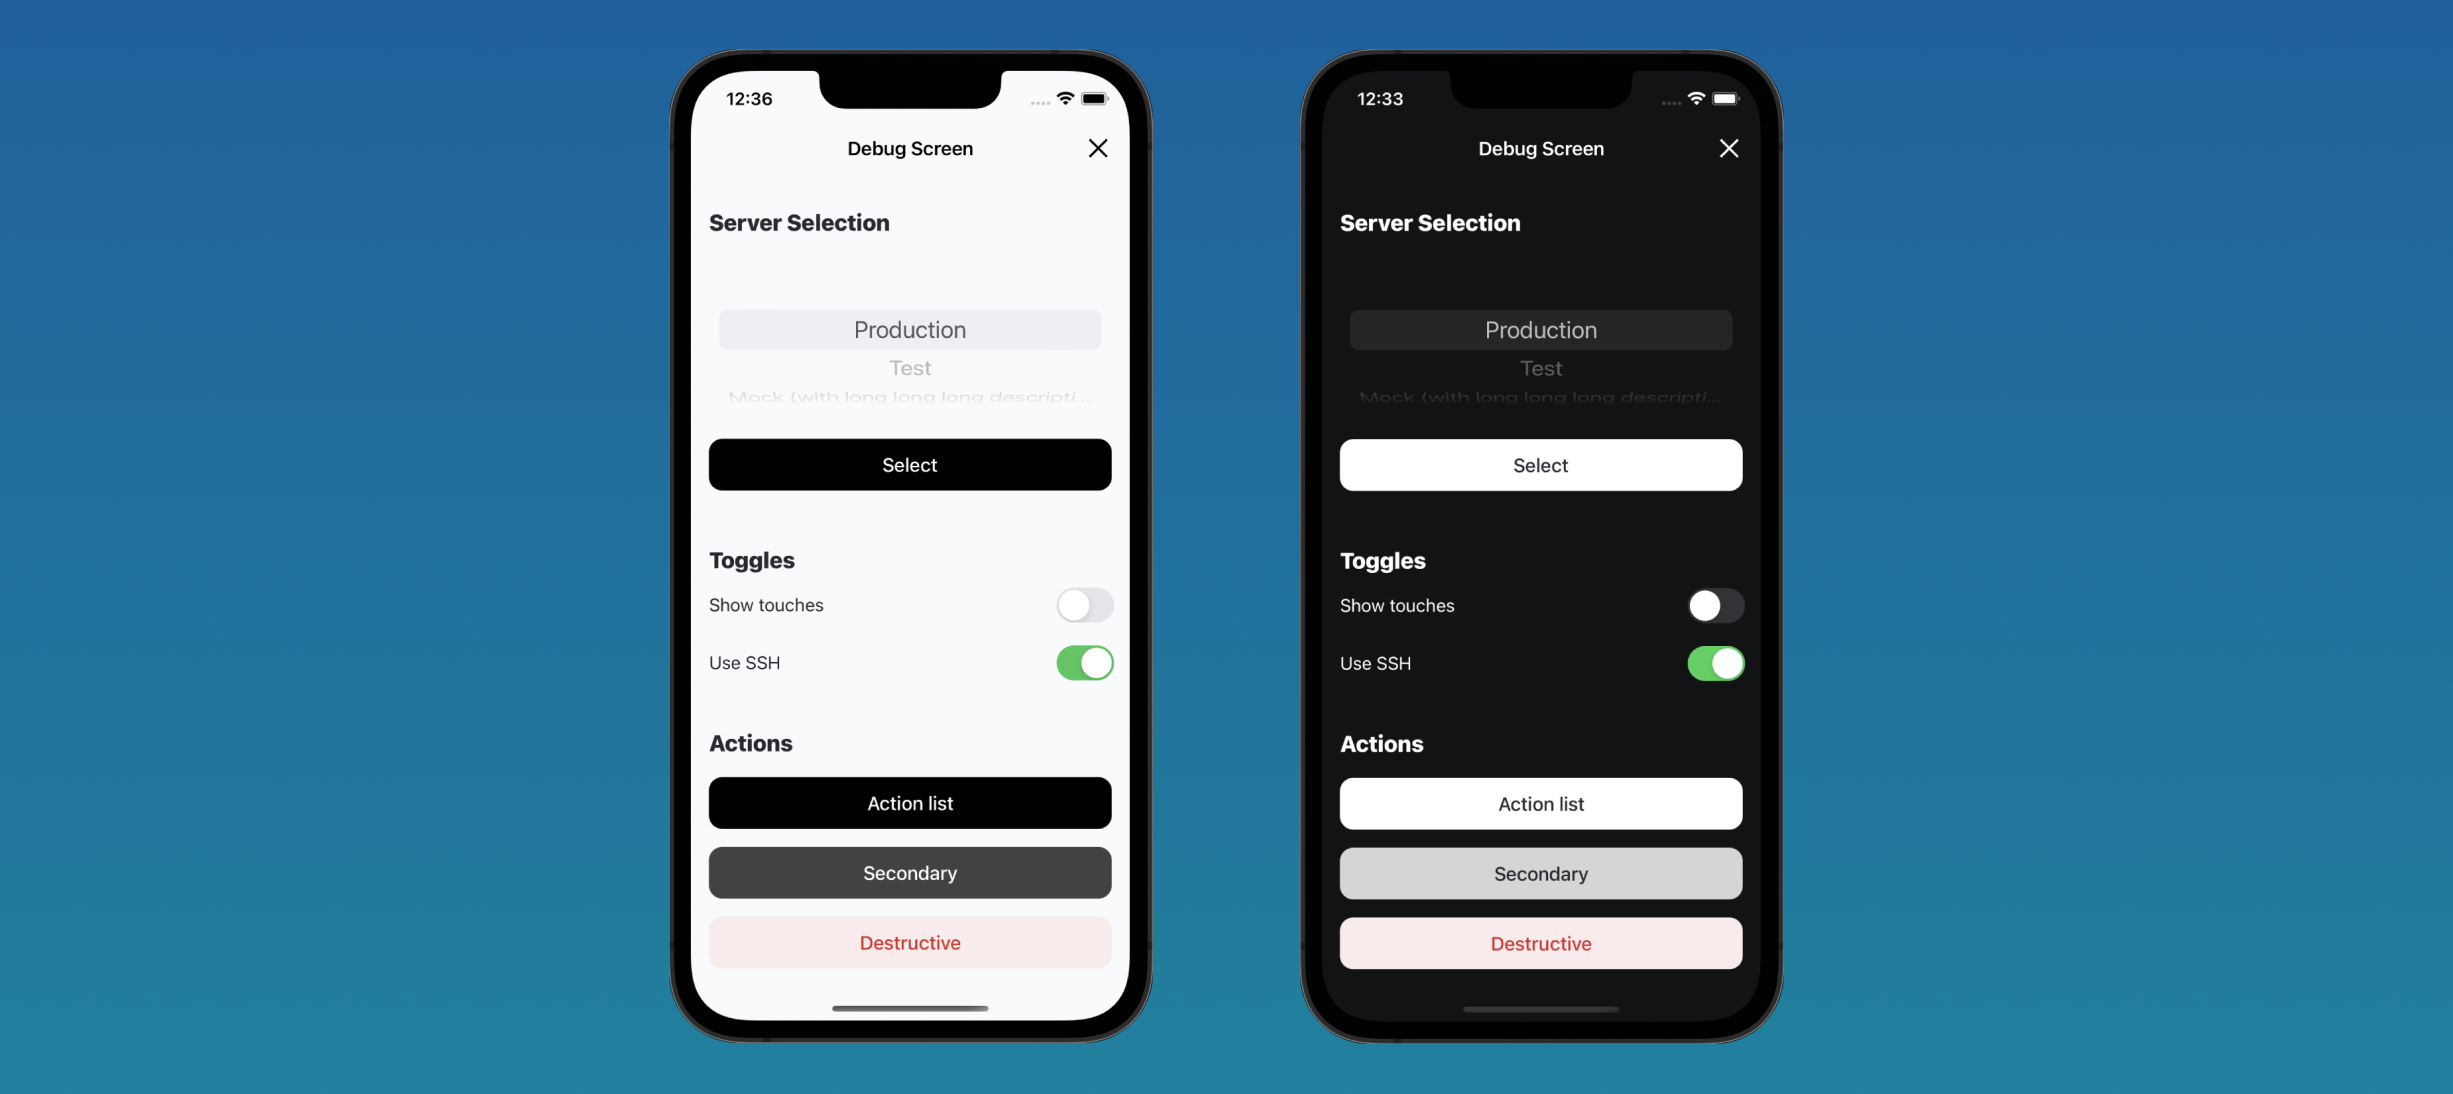
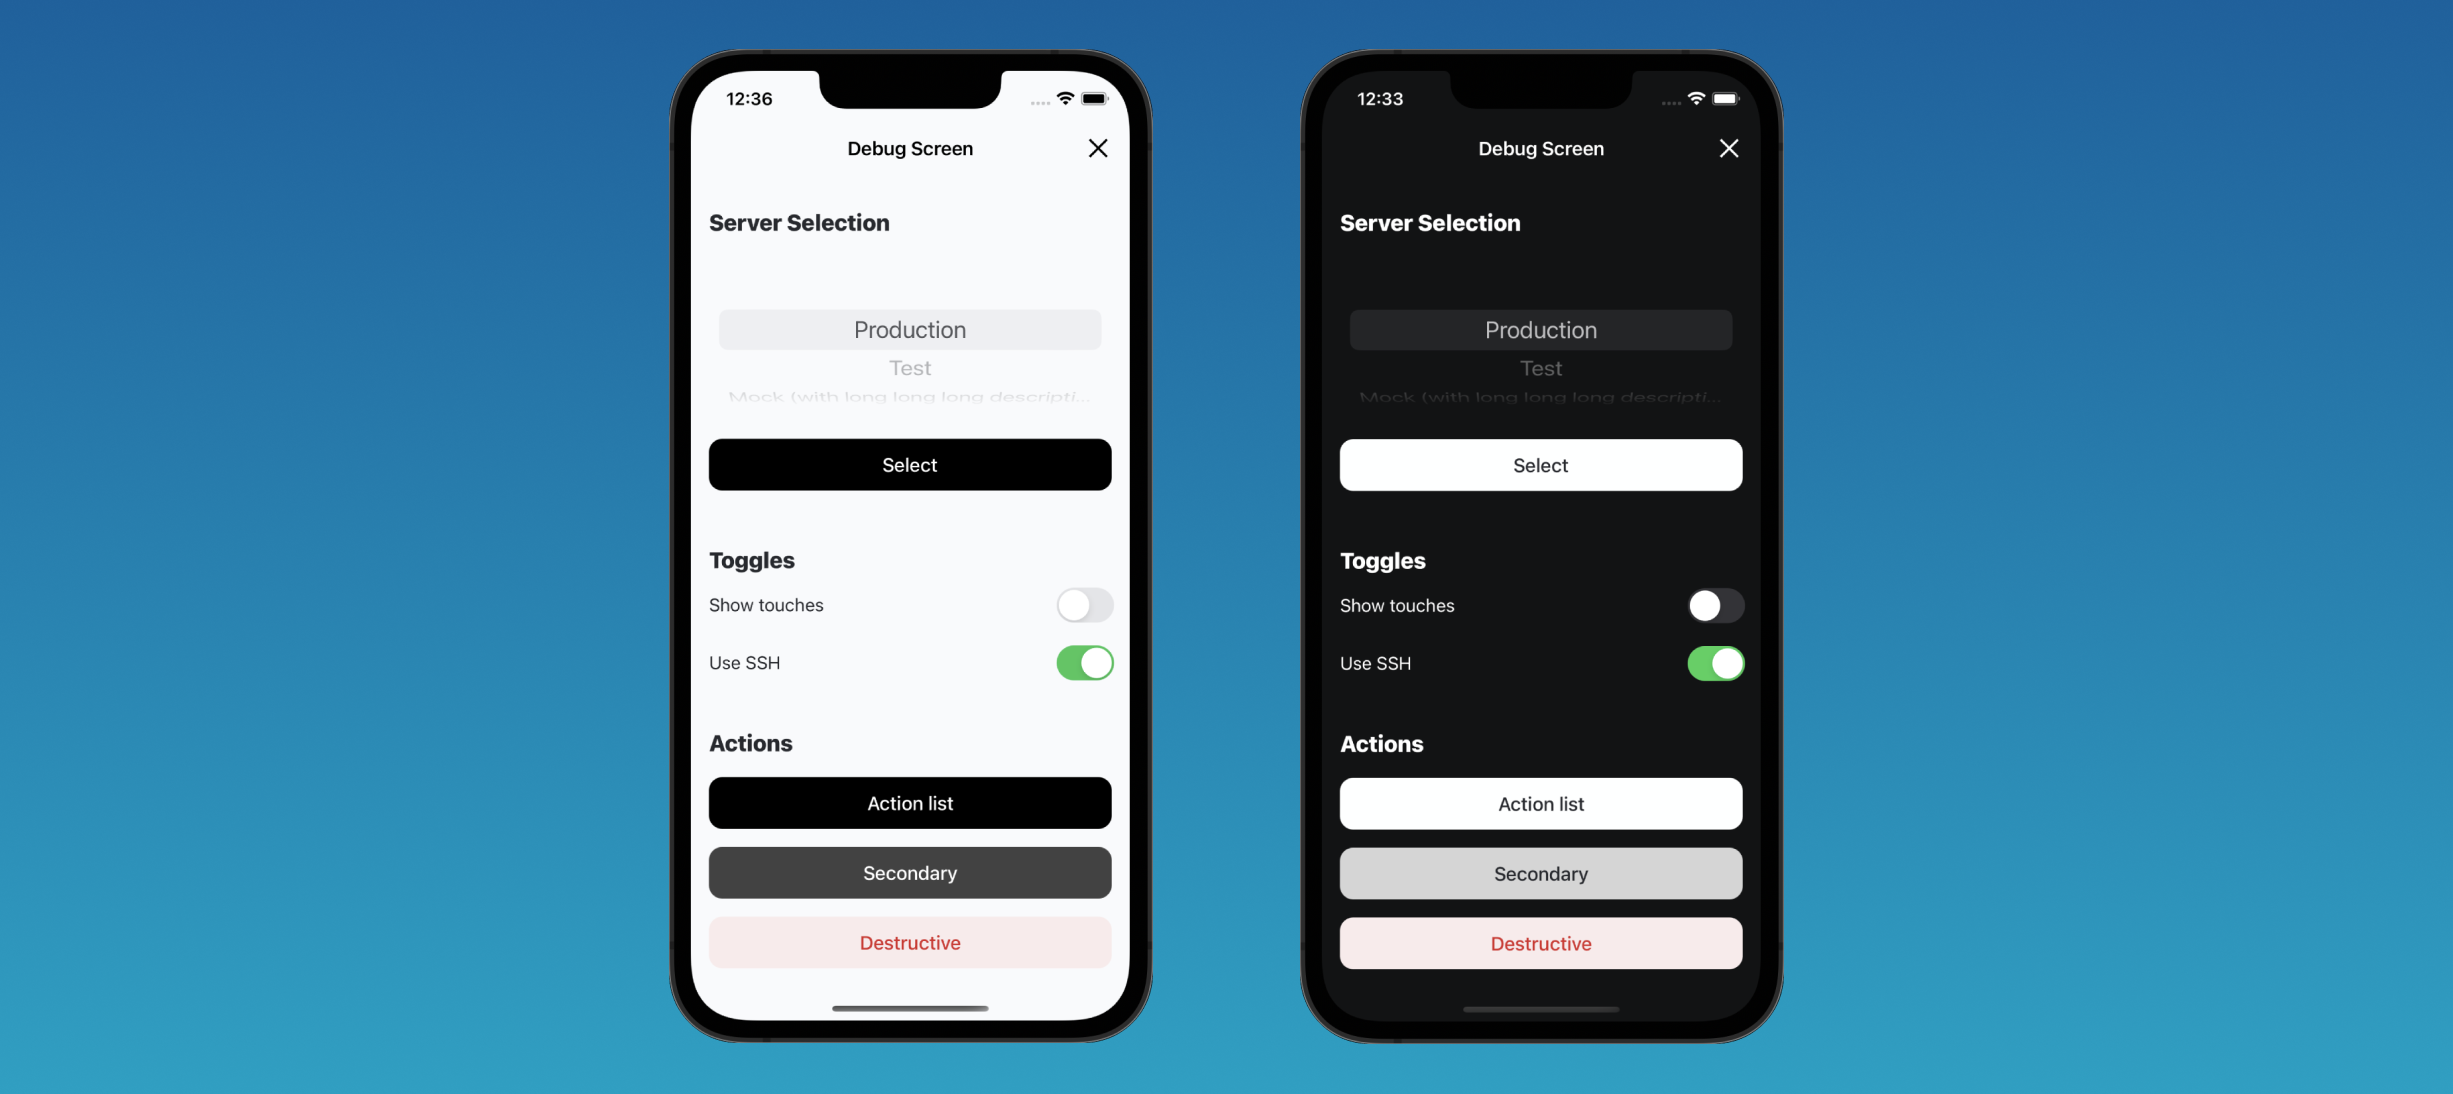
#tech changelog was updated

Changed region(s): [[0.0, 0.6527, 1.0, 1.0]]

diff --git a/Changelog.md b/Changelog.md
@@ -1,14 +1,22 @@
 # DebugScreen
 
+## 2.0.0
+
+- More flexibility was added to existed features [#28](https://github.com/surfstudio/debug-screen-ios/pull/28)
+- Now you can catch and share data from log [#26](https://github.com/surfstudio/debug-screen-ios/pull/26)
+- Ability to open your custom screen [#29](https://github.com/surfstudio/debug-screen-ios/pull/29)
+- Dark-theme was supported [#30](https://github.com/surfstudio/debug-screen-ios/pull/30)
+- Ability to open DebugScreen programatically [#27](https://github.com/surfstudio/debug-screen-ios/pull/27)
+
 ## 1.0.1
 
-- Поправлена внутренняя логика, приводившая в некоторых случаях к утечкам памяти [#24](https://github.com/surfstudio/debug-screen-ios/pull/24)
-- Интерфейс затронут не был
+- Fixed memoty leaks [#24](https://github.com/surfstudio/debug-screen-ios/pull/24)
+- Interface wasn't affected
 
 ## 1.0.0
 
-- Возможность задания кастомных действий (очистка кеша, ping-запрос, итд.)
-- Выбор сервера
-- Тапабельный текст с возможностью задания кастомных действий по тапу
+- Ability to perform custom actions (clearing the cache, ping-request, etc.)
+- Ability to change the server base-url
+- Tap-to-copy action
 - Feature-toggles
-- Поддержка SPM и Cocoapods
+- SPM and Cocoapods compatible
